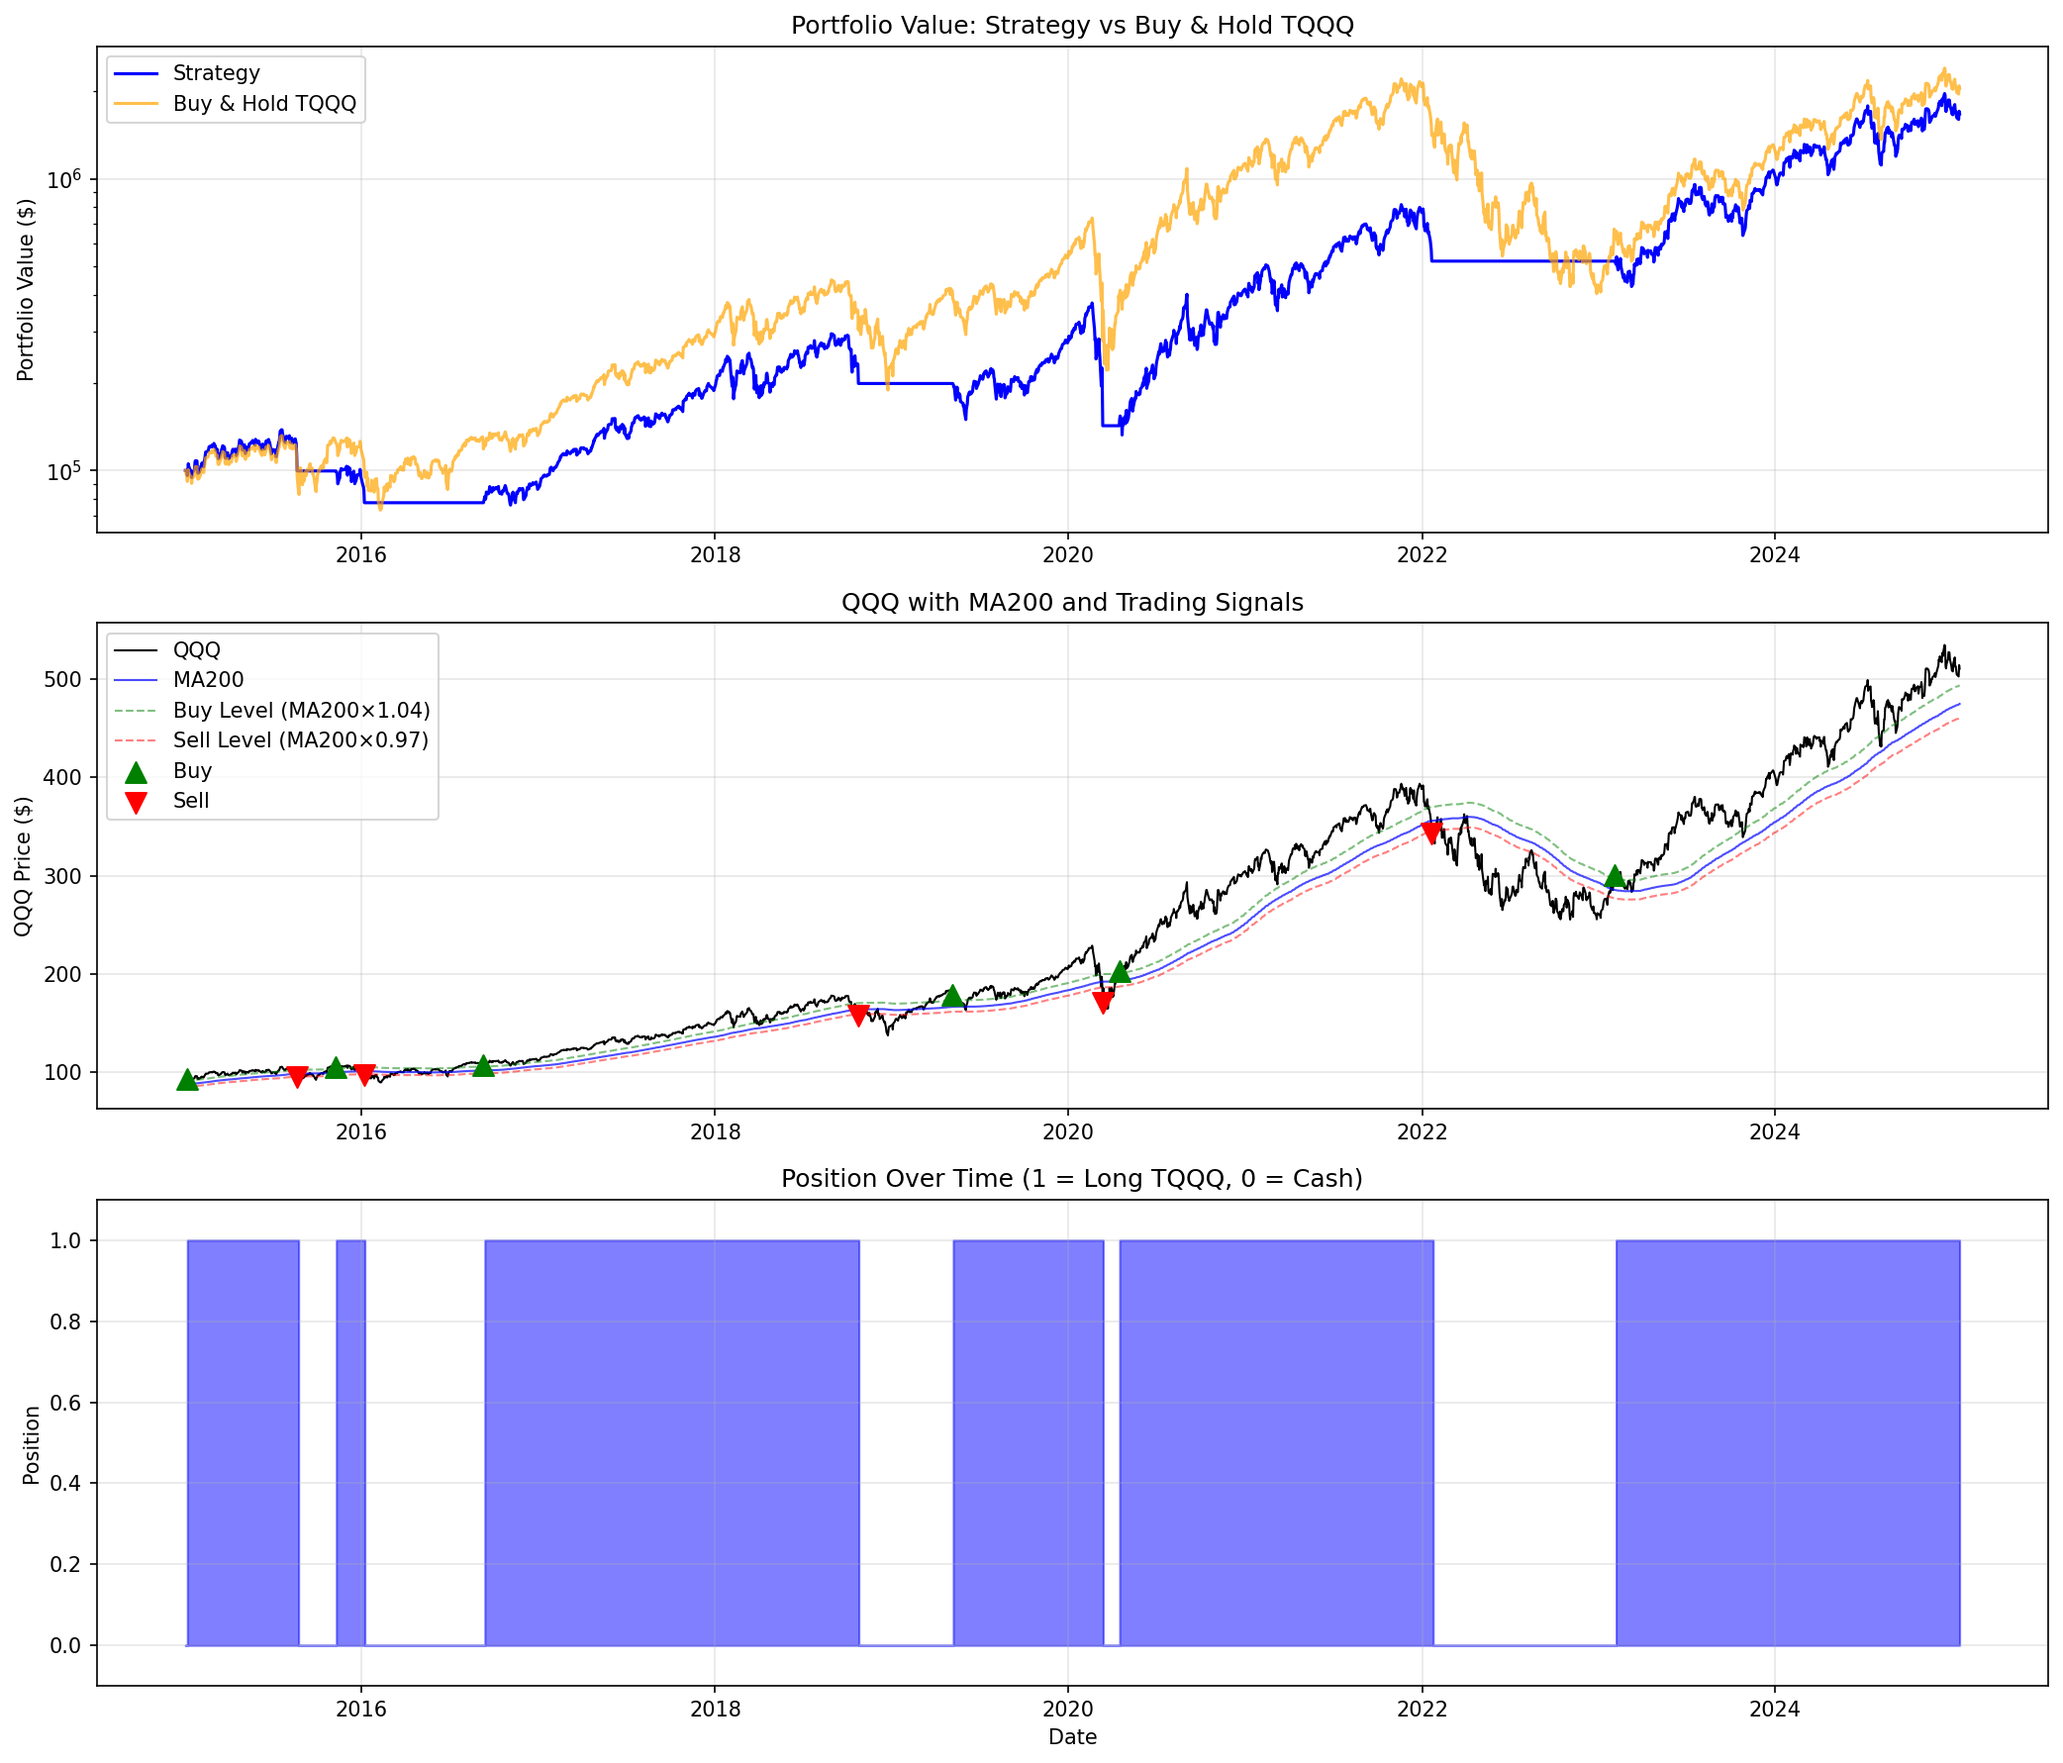
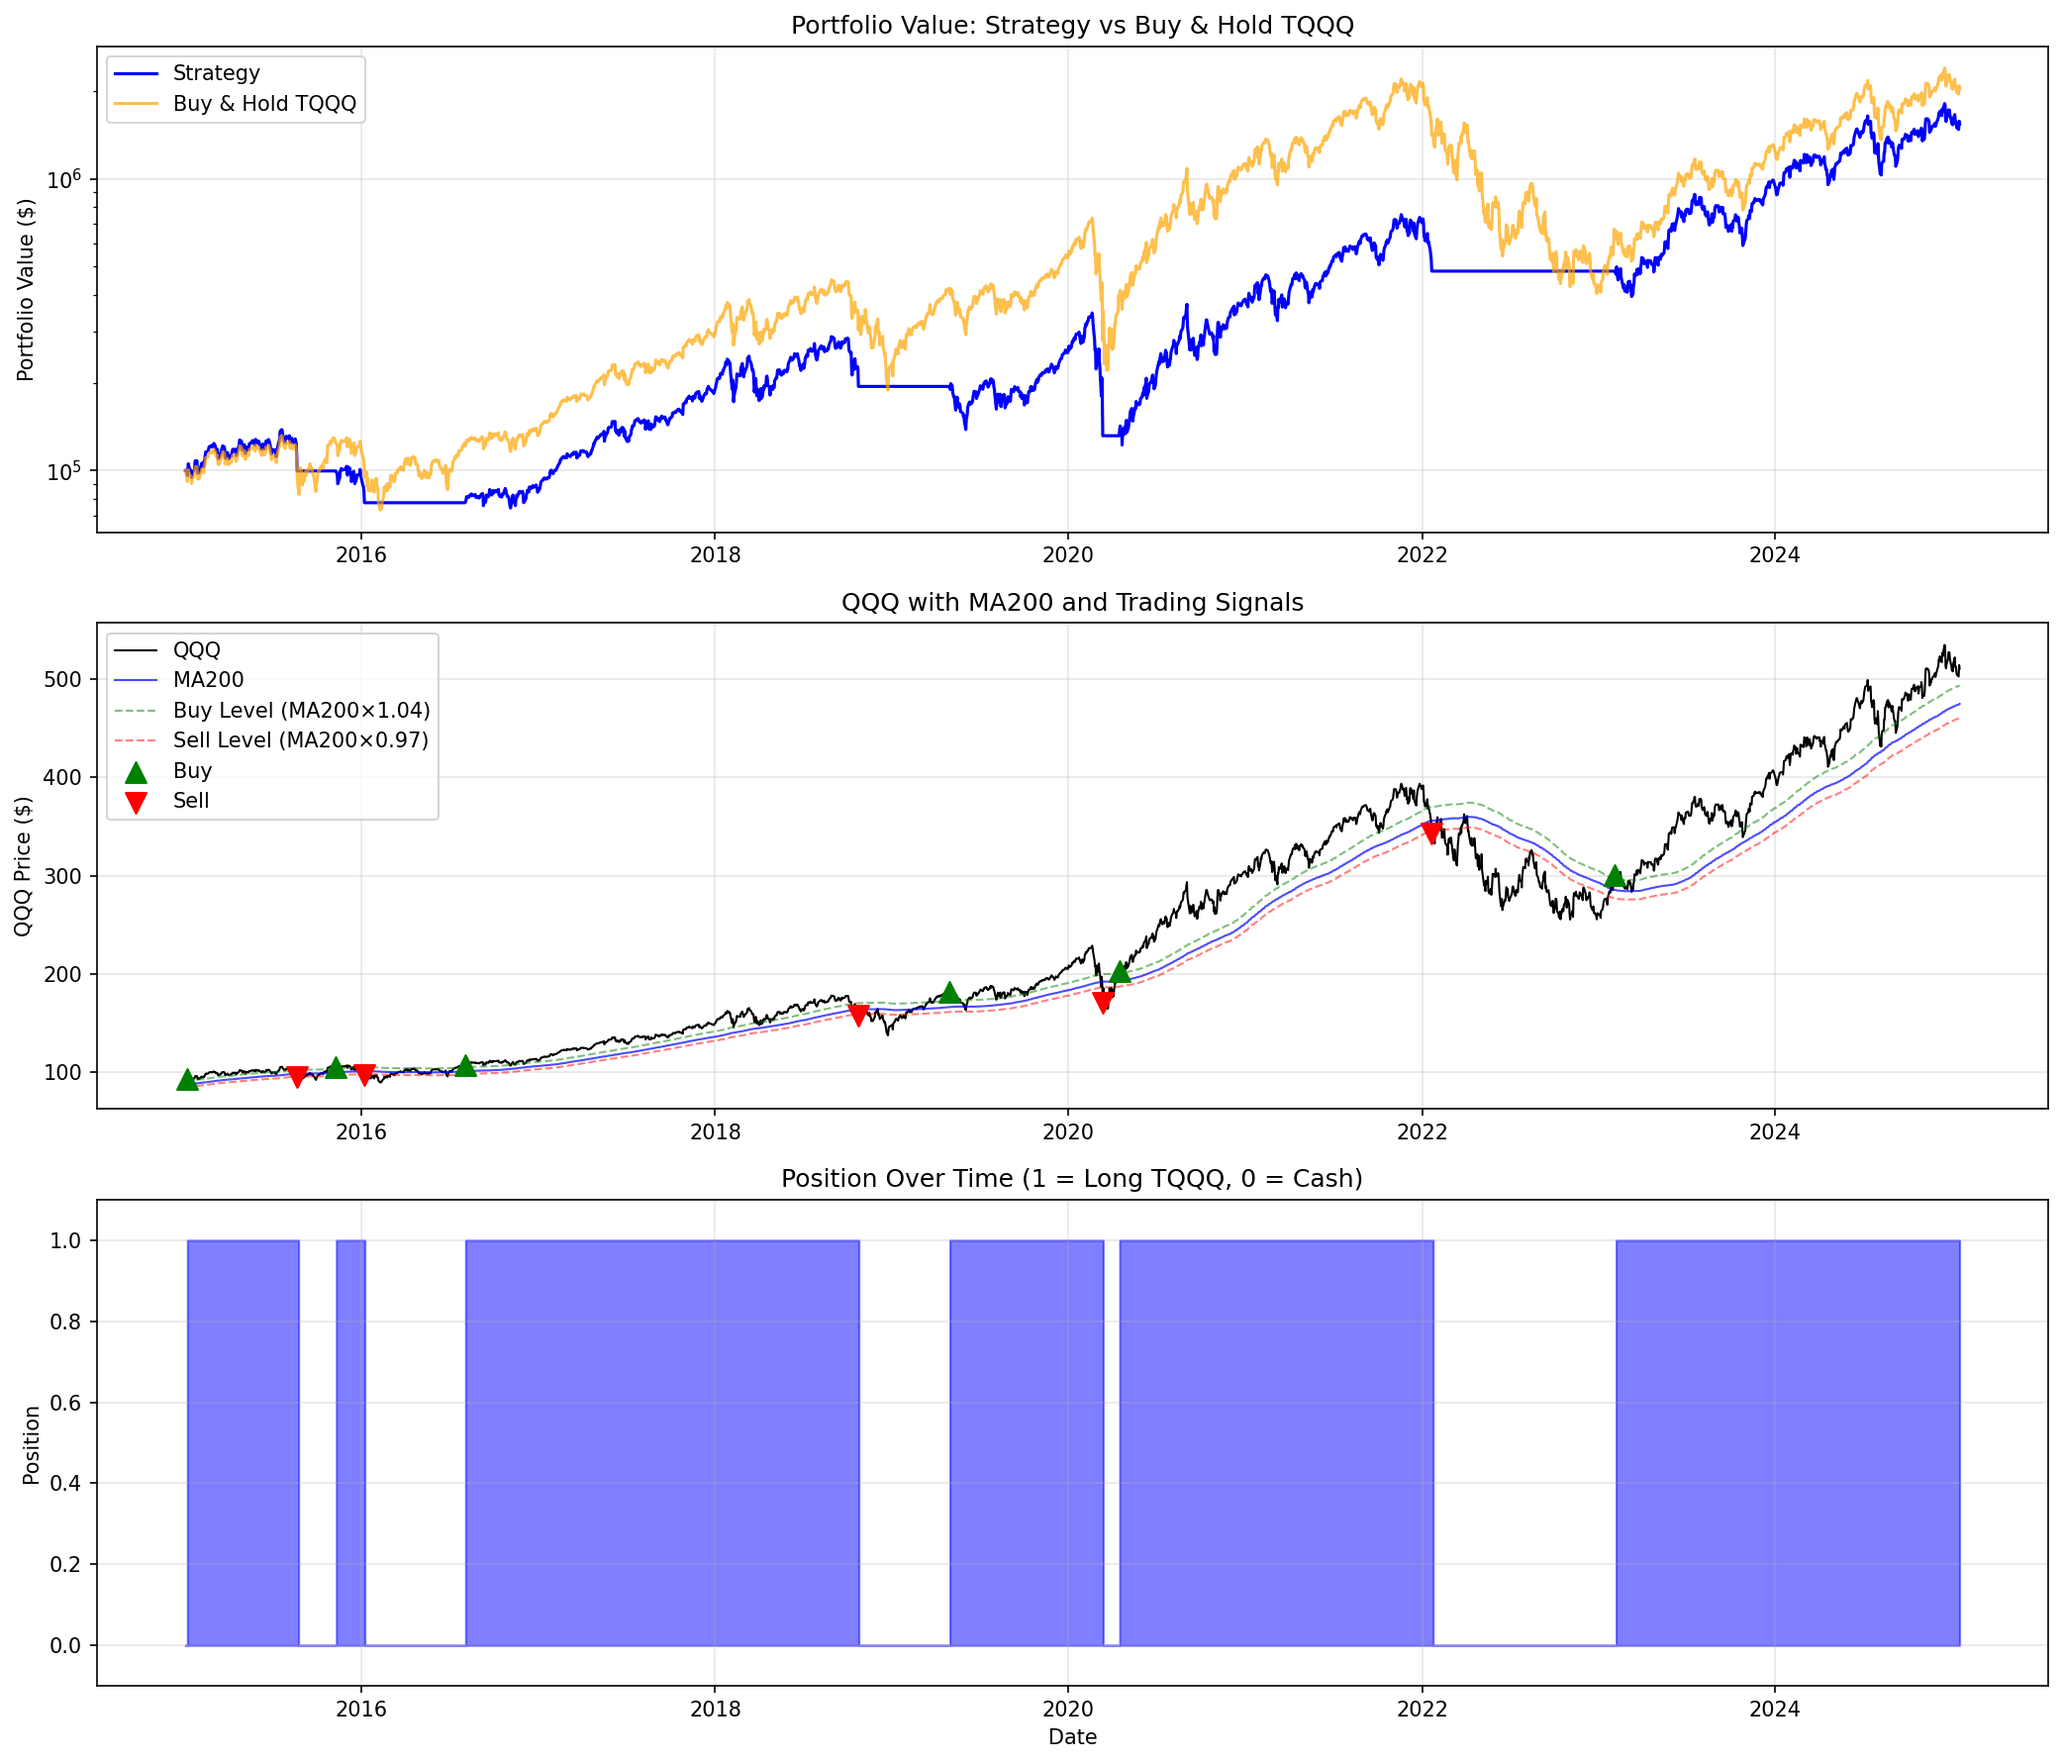
Change buy condition to use intraday drop instead of daily close

diff --git a/tqqq_ma200_strategy.py b/tqqq_ma200_strategy.py
@@ -2,7 +2,7 @@
 TQQQ MA200 Backtesting Strategy
 
 Strategy Rules:
-- BUY TQQQ when: QQQ > MA200 * 1.04 AND QQQ daily loss >= 1%
+- BUY TQQQ when: QQQ > MA200 * 1.04 AND QQQ drops >= 1% intraday (Low vs prev Close)
 - SELL when: QQQ < MA200 * 0.97
 """
 
@@ -57,12 +57,13 @@ class TQQQ_MA200_Strategy:
         print(f"TQQQ data shape: {self.tqqq_data.shape}")
 
     def calculate_indicators(self):
-        """Calculate MA200 and daily returns for QQQ."""
+        """Calculate MA200 and intraday drop for QQQ."""
         # Calculate 200-day moving average
         self.qqq_data['MA200'] = self.qqq_data['Close'].rolling(window=self.ma_period).mean()
 
-        # Calculate daily returns
-        self.qqq_data['Daily_Return'] = self.qqq_data['Close'].pct_change()
+        # Calculate intraday drop: (Low - Previous Close) / Previous Close
+        self.qqq_data['Prev_Close'] = self.qqq_data['Close'].shift(1)
+        self.qqq_data['Intraday_Drop'] = (self.qqq_data['Low'] - self.qqq_data['Prev_Close']) / self.qqq_data['Prev_Close']
 
         # Calculate thresholds
         self.qqq_data['Buy_Level'] = self.qqq_data['MA200'] * self.buy_threshold
@@ -82,16 +83,17 @@ class TQQQ_MA200_Strategy:
         # Initialize signals DataFrame
         self.signals = pd.DataFrame(index=self.qqq_data.index)
         self.signals['QQQ_Close'] = self.qqq_data['Close']
+        self.signals['QQQ_Low'] = self.qqq_data['Low']
         self.signals['TQQQ_Close'] = self.tqqq_data['Close']
         self.signals['MA200'] = self.qqq_data['MA200']
-        self.signals['Daily_Return'] = self.qqq_data['Daily_Return']
+        self.signals['Intraday_Drop'] = self.qqq_data['Intraday_Drop']
         self.signals['Buy_Level'] = self.qqq_data['Buy_Level']
         self.signals['Sell_Level'] = self.qqq_data['Sell_Level']
 
-        # Buy condition: QQQ > MA200 * 1.04 AND daily loss >= 1%
+        # Buy condition: QQQ > MA200 * 1.04 AND intraday drop >= 1%
         self.signals['Buy_Condition'] = (
             (self.signals['QQQ_Close'] > self.signals['Buy_Level']) &
-            (self.signals['Daily_Return'] <= self.daily_loss_threshold)
+            (self.signals['Intraday_Drop'] <= self.daily_loss_threshold)
         )
 
         # Sell condition: QQQ < MA200 * 0.97
@@ -202,9 +204,10 @@ class TQQQ_MA200_Strategy:
                 'Date': date,
                 'Action': action,
                 'QQQ_Price': round(row['QQQ_Close'], 2),
+                'QQQ_Low': round(row['QQQ_Low'], 2),
                 'TQQQ_Price': round(row['TQQQ_Close'], 2),
                 'MA200': round(row['MA200'], 2),
-                'QQQ_Daily_Return': f"{row['Daily_Return']*100:.2f}%"
+                'Intraday_Drop': f"{row['Intraday_Drop']*100:.2f}%"
             })
 
         return pd.DataFrame(trade_log)
@@ -271,7 +274,7 @@ class TQQQ_MA200_Strategy:
         print("TQQQ MA200 Strategy Backtest")
         print("=" * 60)
         print(f"\nStrategy Rules:")
-        print(f"  BUY TQQQ when: QQQ > MA200 × {self.buy_threshold} AND QQQ daily loss >= 1%")
+        print(f"  BUY TQQQ when: QQQ > MA200 × {self.buy_threshold} AND QQQ intraday drop >= 1%")
         print(f"  SELL when: QQQ < MA200 × {self.sell_threshold}")
         print(f"\nBacktest Period: {self.start_date} to {self.end_date}")
         print(f"Initial Capital: ${self.initial_capital:,.2f}")
